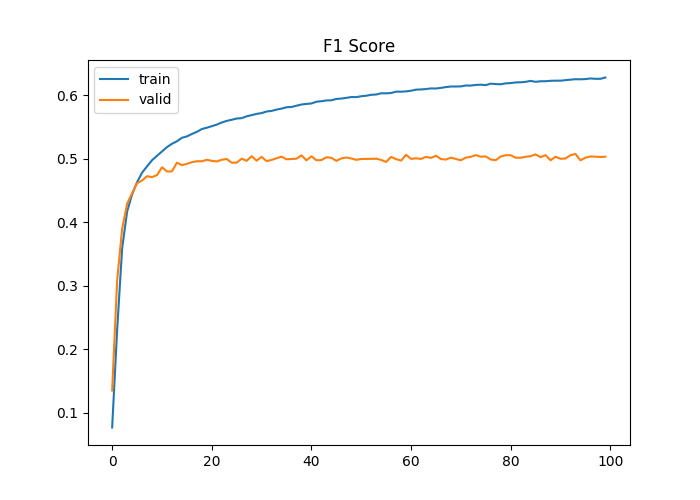
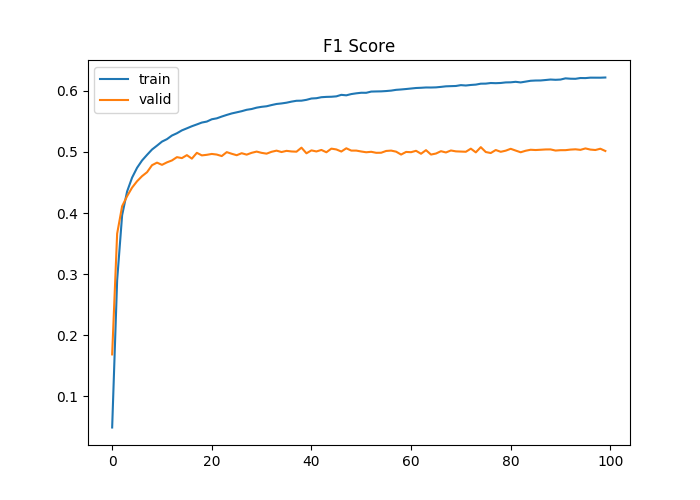
no remove_stopwords

diff --git a/My_Code/task1/CNN-4.py b/My_Code/task1/CNN-4.py
@@ -111,8 +111,8 @@ dataset.drop('Authors',axis=1,inplace=True)
 dataset['Abstract'] = dataset['Abstract'].str.lower()
 #dataset['Task 1'] = dataset['Task 1'].str.lower()
 
-for i in range(len(dataset['Abstract'])):
-    dataset['Abstract'][i] = remove_stopwords(dataset['Abstract'][i])
+#for i in range(len(dataset['Abstract'])):
+#    dataset['Abstract'][i] = remove_stopwords(dataset['Abstract'][i])
 
 
 # In[ ]:
@@ -143,8 +143,8 @@ dataset.drop('Created Date',axis=1, inplace=True)
 dataset.drop('Authors',axis=1,inplace=True)
 dataset['Abstract'] = dataset['Abstract'].str.lower()
 
-for i in range(len(dataset['Abstract'])):
-    dataset['Abstract'][i] = remove_stopwords(dataset['Abstract'][i])
+#for i in range(len(dataset['Abstract'])):
+#    dataset['Abstract'][i] = remove_stopwords(dataset['Abstract'][i])
 
 dataset.to_csv(os.path.join(CWD,'data/testset.csv'),index=False)
 
@@ -159,7 +159,7 @@ from nltk.tokenize import word_tokenize
 
 def collect_words(data_path, n_workers=4):
     df = pd.read_csv(data_path, dtype=str)
-        
+
     # create a list for storing sentences
     sent_list = []
     for i in df.iterrows():
